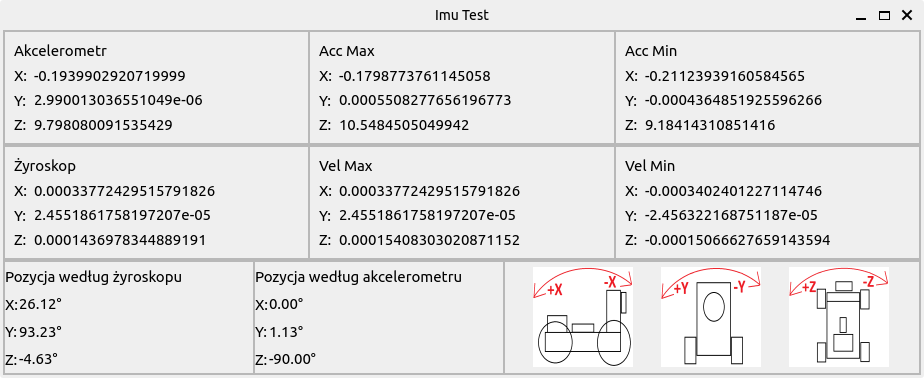
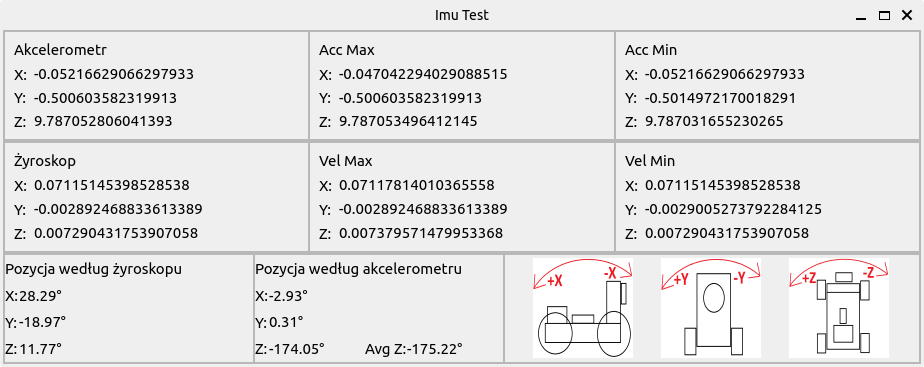
dodanie wyświetlania średniej wartości z według akcelerometru

diff --git a/MainWindow.py b/MainWindow.py
@@ -297,28 +297,35 @@ class Ui_MainWindow(object):
         self.label_29 = QtWidgets.QLabel(self.frame_7)
         self.label_29.setObjectName("label_29")
         self.gridLayout_8.addWidget(self.label_29, 1, 0, 1, 1)
-        self.label_30 = QtWidgets.QLabel(self.frame_7)
-        self.label_30.setObjectName("label_30")
-        self.gridLayout_8.addWidget(self.label_30, 0, 0, 1, 3)
         self.label_34 = QtWidgets.QLabel(self.frame_7)
         self.label_34.setObjectName("label_34")
         self.gridLayout_8.addWidget(self.label_34, 4, 0, 1, 1)
-        self.acc_x_angle_label = QtWidgets.QLabel(self.frame_7)
-        self.acc_x_angle_label.setTextInteractionFlags(QtCore.Qt.LinksAccessibleByMouse|QtCore.Qt.TextSelectableByMouse)
-        self.acc_x_angle_label.setObjectName("acc_x_angle_label")
-        self.gridLayout_8.addWidget(self.acc_x_angle_label, 1, 1, 1, 1)
         self.acc_z_angle_label = QtWidgets.QLabel(self.frame_7)
         self.acc_z_angle_label.setTextInteractionFlags(QtCore.Qt.LinksAccessibleByMouse|QtCore.Qt.TextSelectableByMouse)
         self.acc_z_angle_label.setObjectName("acc_z_angle_label")
         self.gridLayout_8.addWidget(self.acc_z_angle_label, 4, 1, 1, 1)
-        self.acc_y_angle_label = QtWidgets.QLabel(self.frame_7)
-        self.acc_y_angle_label.setTextInteractionFlags(QtCore.Qt.LinksAccessibleByMouse|QtCore.Qt.TextSelectableByMouse)
-        self.acc_y_angle_label.setObjectName("acc_y_angle_label")
-        self.gridLayout_8.addWidget(self.acc_y_angle_label, 2, 1, 1, 1)
         self.label_35 = QtWidgets.QLabel(self.frame_7)
         self.label_35.setObjectName("label_35")
         self.gridLayout_8.addWidget(self.label_35, 2, 0, 1, 1)
+        self.label_36 = QtWidgets.QLabel(self.frame_7)
+        self.label_36.setObjectName("label_36")
+        self.gridLayout_8.addWidget(self.label_36, 4, 2, 1, 1)
+        self.acc_z_avg_angle_label = QtWidgets.QLabel(self.frame_7)
+        self.acc_z_avg_angle_label.setObjectName("acc_z_avg_angle_label")
+        self.gridLayout_8.addWidget(self.acc_z_avg_angle_label, 4, 3, 1, 1)
+        self.acc_y_angle_label = QtWidgets.QLabel(self.frame_7)
+        self.acc_y_angle_label.setTextInteractionFlags(QtCore.Qt.LinksAccessibleByMouse|QtCore.Qt.TextSelectableByMouse)
+        self.acc_y_angle_label.setObjectName("acc_y_angle_label")
+        self.gridLayout_8.addWidget(self.acc_y_angle_label, 2, 1, 1, 3)
+        self.label_30 = QtWidgets.QLabel(self.frame_7)
+        self.label_30.setObjectName("label_30")
+        self.gridLayout_8.addWidget(self.label_30, 0, 0, 1, 4)
+        self.acc_x_angle_label = QtWidgets.QLabel(self.frame_7)
+        self.acc_x_angle_label.setTextInteractionFlags(QtCore.Qt.LinksAccessibleByMouse|QtCore.Qt.TextSelectableByMouse)
+        self.acc_x_angle_label.setObjectName("acc_x_angle_label")
+        self.gridLayout_8.addWidget(self.acc_x_angle_label, 1, 1, 1, 3)
         self.gridLayout_8.setColumnStretch(1, 1)
+        self.gridLayout_8.setColumnStretch(3, 1)
         self.horizontalLayout_3.addWidget(self.frame_7)
         self.frame_5 = QtWidgets.QFrame(self.frame_2)
         self.frame_5.setFrameShape(QtWidgets.QFrame.StyledPanel)
@@ -420,10 +427,12 @@ class Ui_MainWindow(object):
         self.vel_y_angle_label.setText(_translate("MainWindow", "00"))
         self.label_21.setText(_translate("MainWindow", "Y:"))
         self.label_29.setText(_translate("MainWindow", "X:"))
-        self.label_30.setText(_translate("MainWindow", "Pozycja według akcelerometru"))
         self.label_34.setText(_translate("MainWindow", "Z:"))
-        self.acc_x_angle_label.setText(_translate("MainWindow", "00"))
         self.acc_z_angle_label.setText(_translate("MainWindow", "00"))
-        self.acc_y_angle_label.setText(_translate("MainWindow", "00"))
         self.label_35.setText(_translate("MainWindow", "Y:"))
+        self.label_36.setText(_translate("MainWindow", "Avg Z:"))
+        self.acc_z_avg_angle_label.setText(_translate("MainWindow", "00"))
+        self.acc_y_angle_label.setText(_translate("MainWindow", "00"))
+        self.label_30.setText(_translate("MainWindow", "Pozycja według akcelerometru"))
+        self.acc_x_angle_label.setText(_translate("MainWindow", "00"))
 import resources_rc

diff --git a/main.py b/main.py
@@ -21,7 +21,8 @@ class ImuSubscriber(QtCore.QObject):
             'linear_acc_z': [],
             'angular_vel_x': [],
             'angular_vel_y': [],
-            'angular_vel_z': []
+            'angular_vel_z': [],
+            'acc_angle_z': []
         }
         self.last_updated_time = datetime.now()
         self.vel_angle_x = 0.0
@@ -61,6 +62,10 @@ class ImuSubscriber(QtCore.QObject):
             self.data_lists[key].append((value, datetime.now()))
             self.data_lists[key] = [(val, time) for val, time in self.data_lists[key] if datetime.now() - time <= timedelta(seconds=1)]
 
+        # Dodawanie wartości acc_angle_z do listy
+        self.data_lists['acc_angle_z'].append((self.acc_angle_z, datetime.now()))
+        self.data_lists['acc_angle_z'] = [(val, time) for val, time in self.data_lists['acc_angle_z'] if datetime.now() - time <= timedelta(seconds=3)]
+
         self.imu_data_signal.emit(data)
 
         if datetime.now() - self.last_updated_time > timedelta(seconds=1):
@@ -71,6 +76,10 @@ class ImuSubscriber(QtCore.QObject):
 
                 getattr(self.main_window, f"{key}_max_label").setText(str(max_value))
                 getattr(self.main_window, f"{key}_min_label").setText(str(min_value))
+
+            # Obliczanie średniej arytmetycznej wartości acc_angle_z
+            avg_acc_angle_z = sum(val[0] for val in self.data_lists['acc_angle_z']) / len(self.data_lists['acc_angle_z'])
+            self.main_window.acc_z_avg_angle_label.setText(f"{avg_acc_angle_z:.2f}°")
 
 
         # Obliczanie kąta pochylenia
